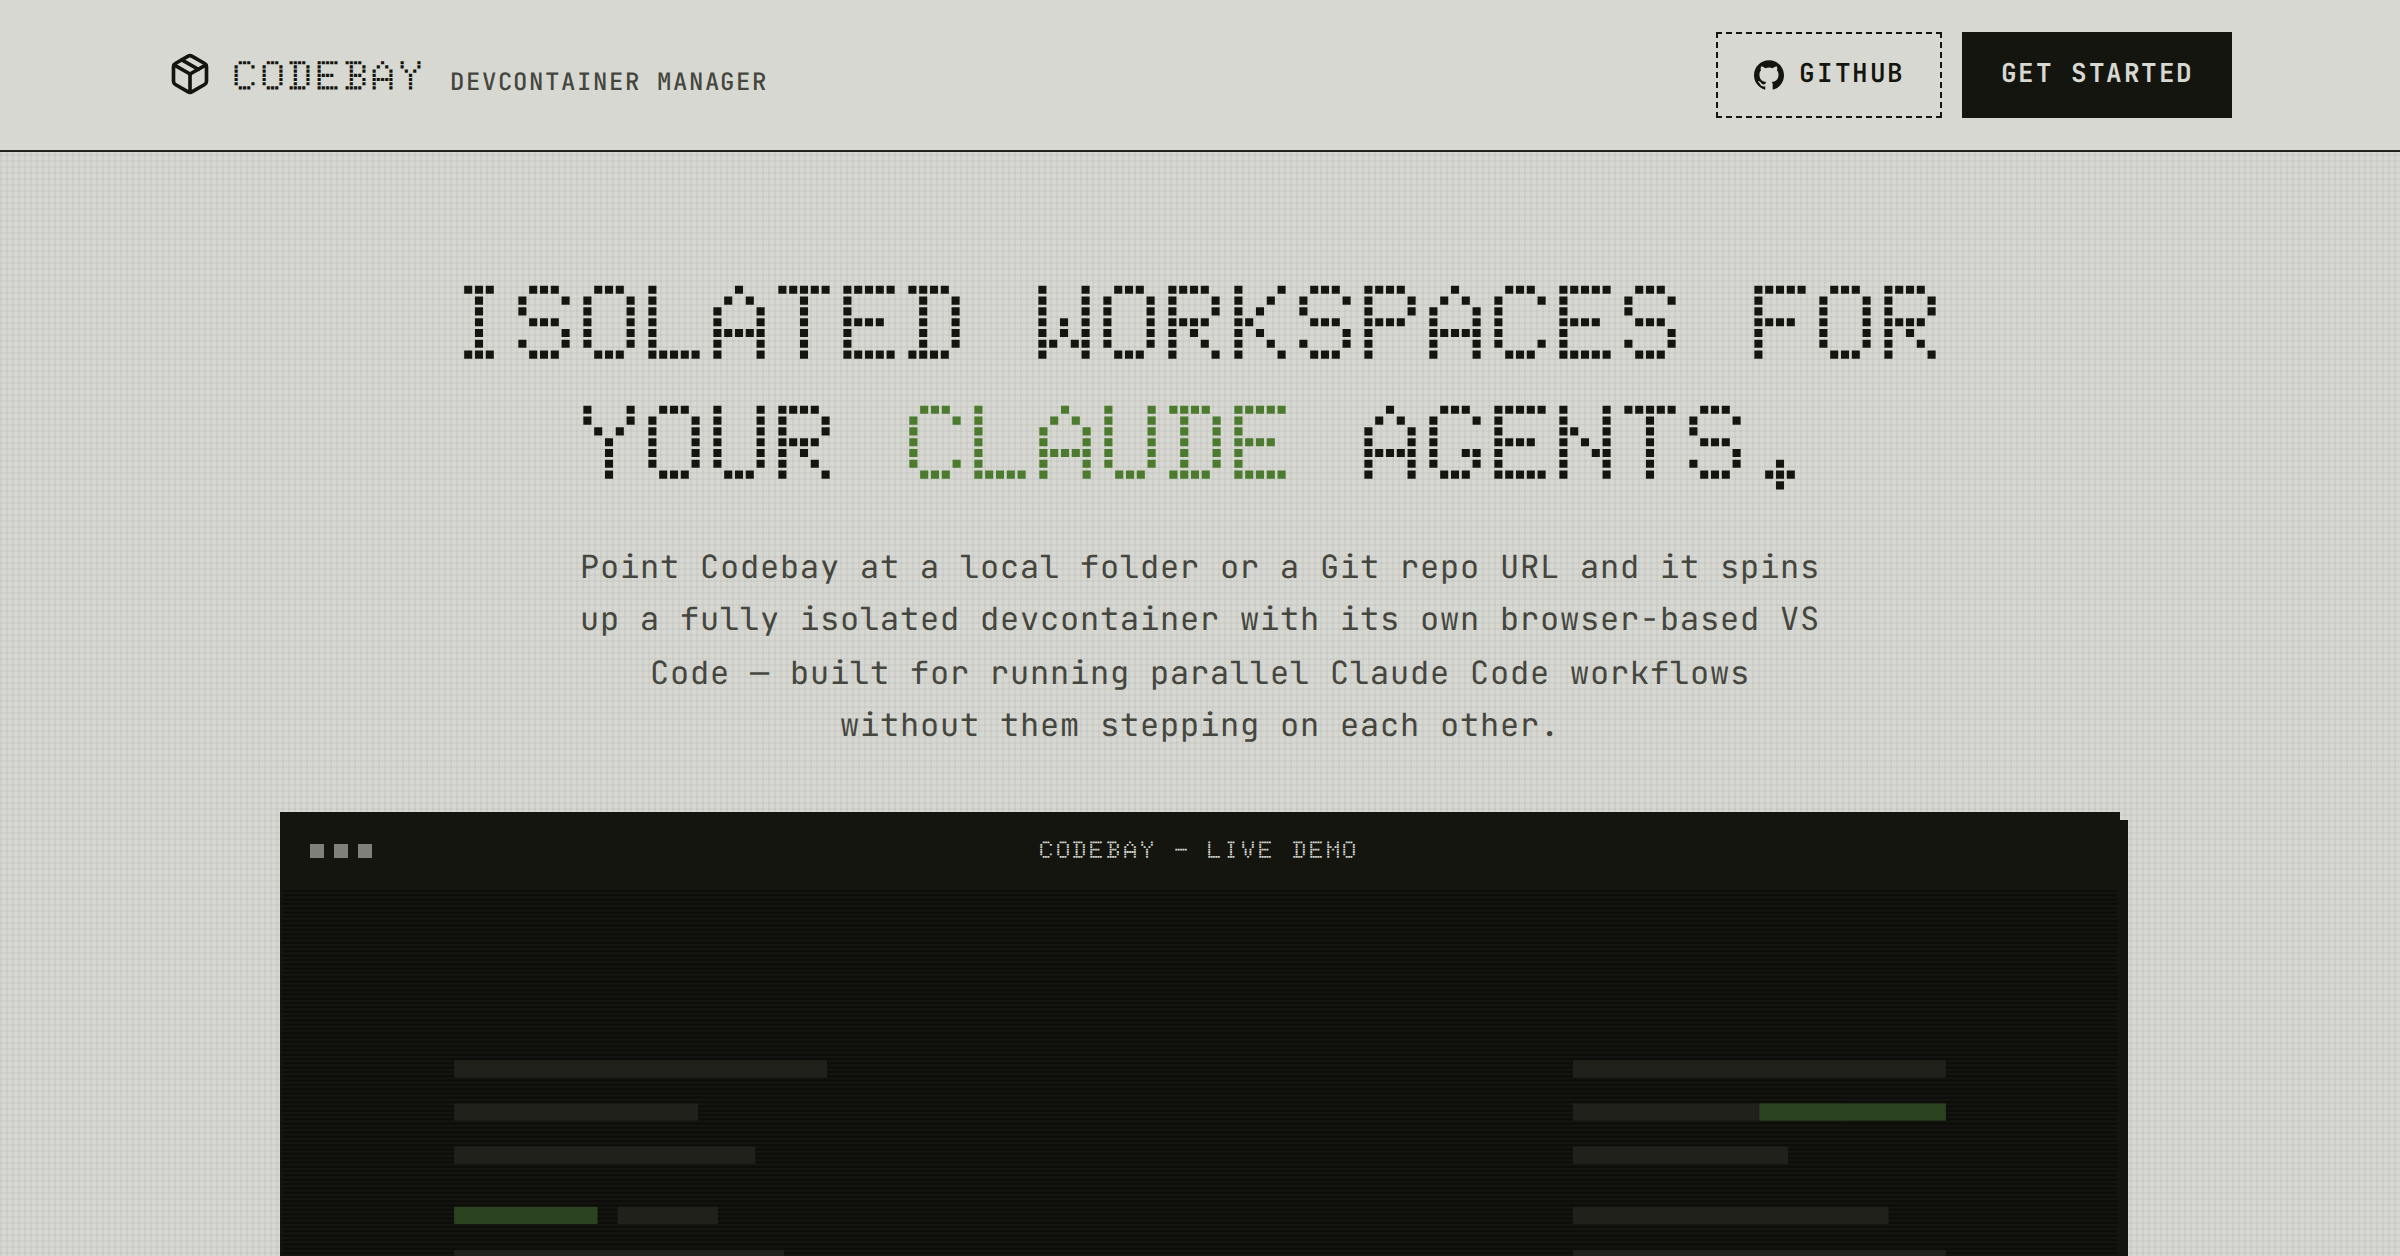
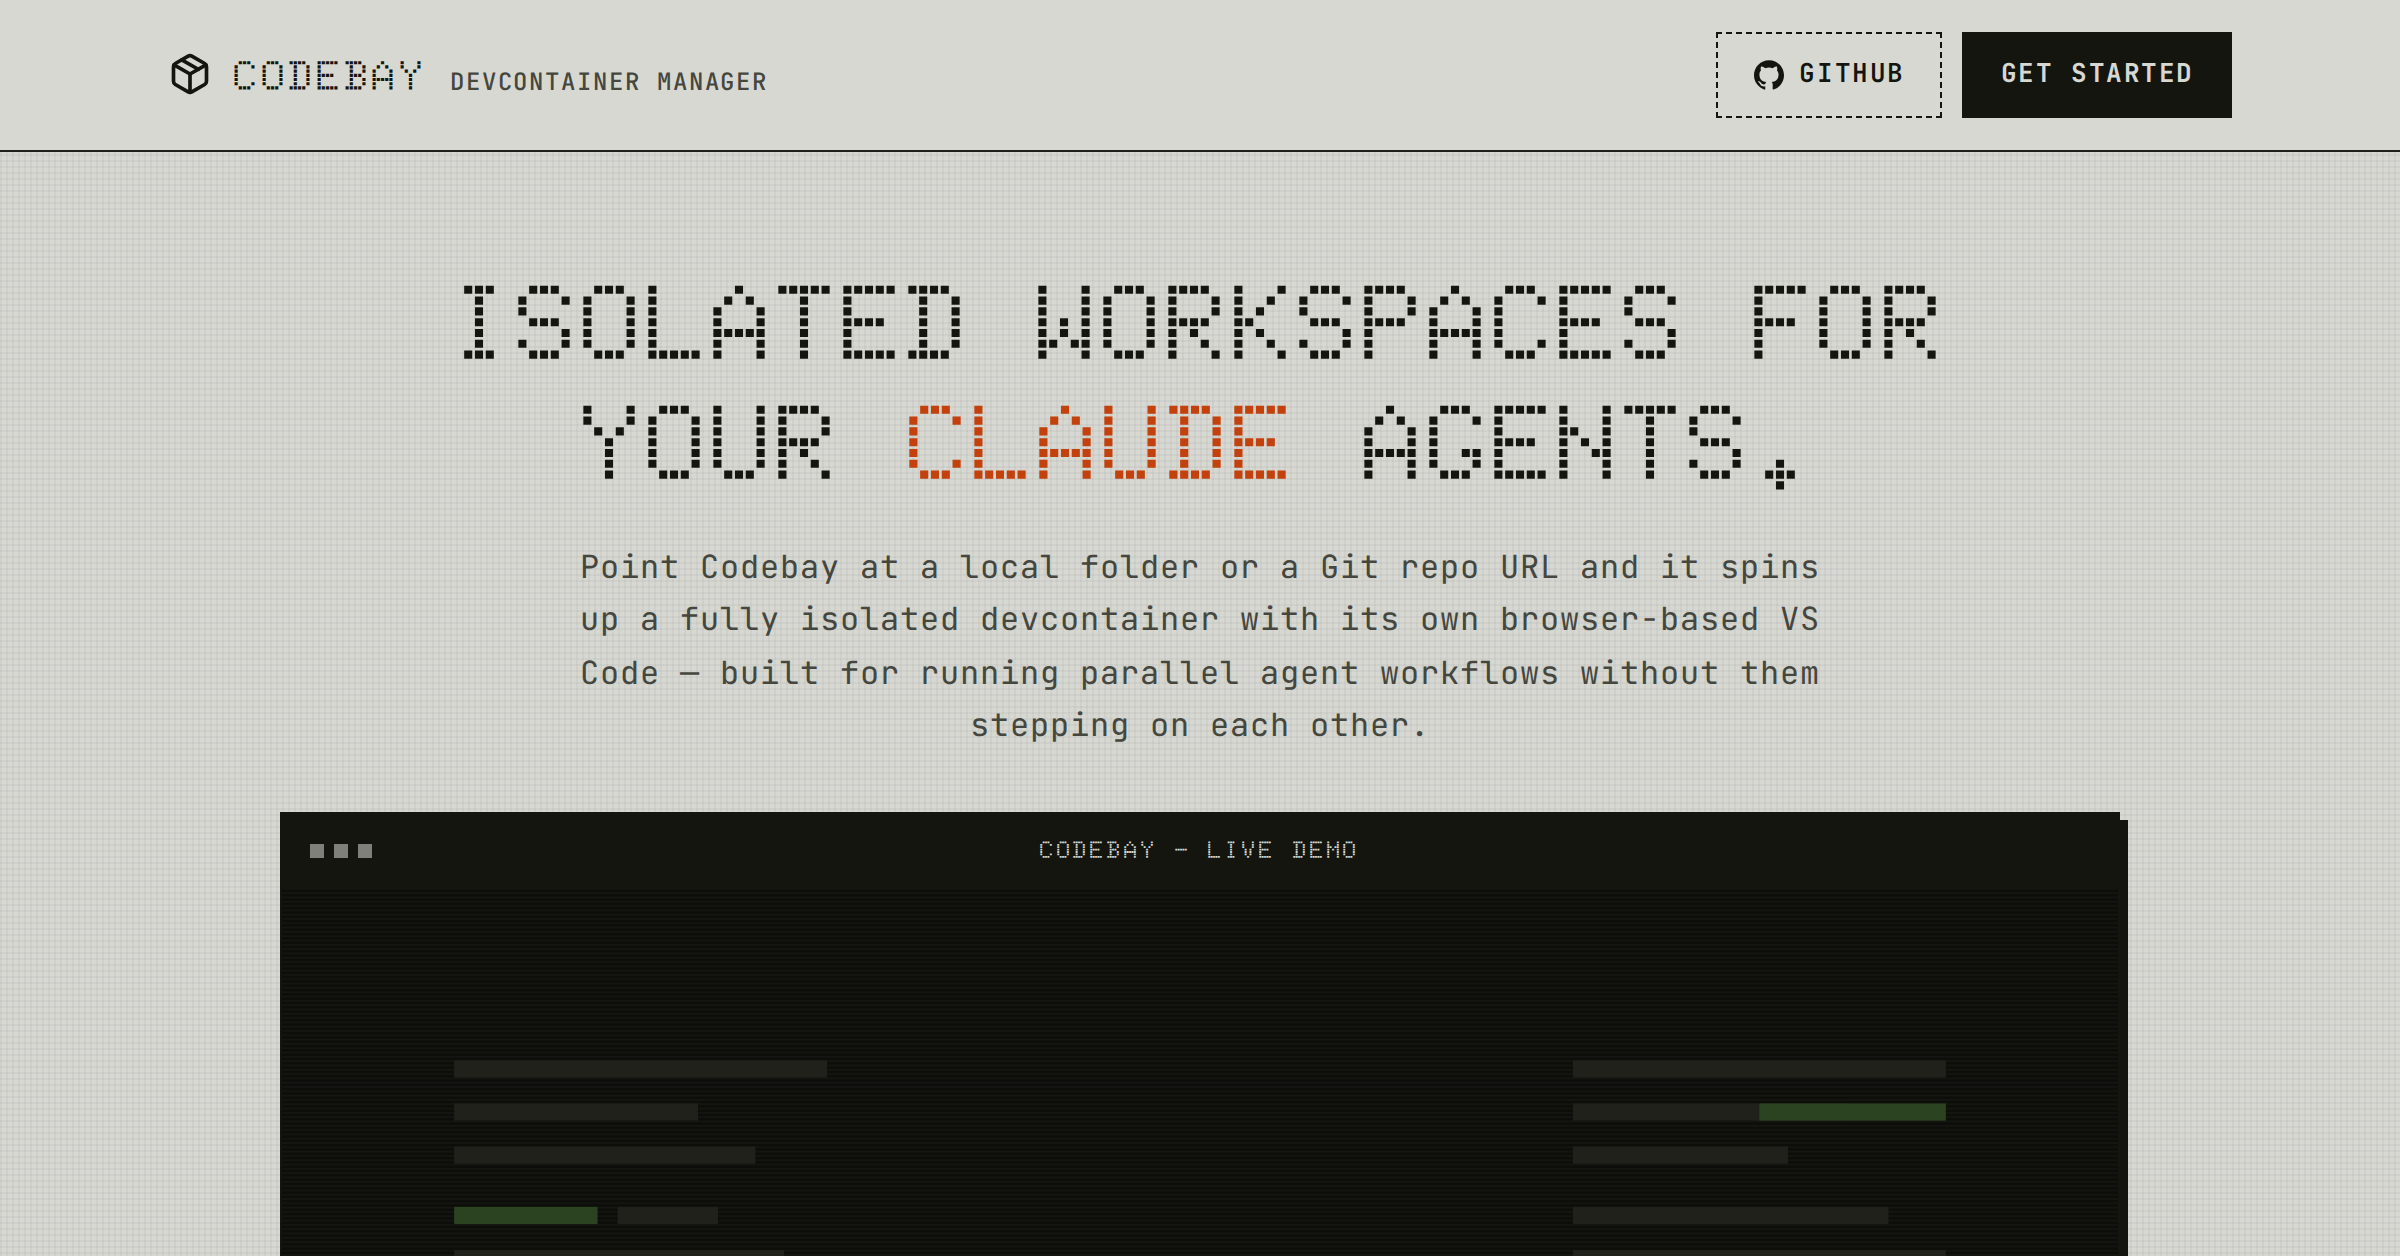
chore: brand rotator colors, triple word-rotator, keep dashboard art
- Claude renders in Claude's dark orange, Codex stays green, both
  properly centered in the shared rotator cell
- "Unsupervised agents..." now cycles through if you want / dare / care
  with the same rotator technique
- The dashboard mockup is no longer a placeholder — trimmed its height,
  dropped the "screenshot goes here" caption, and wired it in directly
- Avatar section mentions drawing your own sprite
- Swapped "Claude Code workflows" for "agent workflows" in the pitch
- Regenerated the og-image screenshot to match

Changed region(s): [[0.25, 0.5279, 0.75, 0.59], [0.375, 0.3105, 0.5312, 0.4037]]

diff --git a/marketing/index.html b/marketing/index.html
@@ -6,7 +6,7 @@
 		<title>Codebay — the devcontainer manager</title>
 		<meta
 			name="description"
-			content="Codebay spins up isolated devcontainer instances from any local folder or Git repo, each with its own browser-based VS Code — built for parallel Claude Code workflows."
+			content="Codebay spins up isolated devcontainer instances from any local folder or Git repo, each with its own browser-based VS Code — built for parallel agent workflows."
 		/>
 		<meta name="theme-color" content="#d7d8d2" />
 		<link rel="icon" type="image/svg+xml" href="./assets/favicon.svg" />
@@ -85,7 +85,7 @@
 				<div class="stage">
 					<h1 class="headline">
 						Isolated workspaces for your
-						<span class="word-rotator" aria-hidden="true">
+						<span class="word-rotator hero-rotator" aria-hidden="true">
 							<span class="word">Claude</span>
 							<span class="word">Codex</span>
 						</span>
@@ -94,8 +94,8 @@
 					</h1>
 					<p class="subhead">
 						Point Codebay at a local folder or a Git repo URL and it spins up a fully isolated
-						devcontainer with its own browser-based VS Code — built for running parallel
-						Claude&nbsp;Code workflows without them stepping on each other.
+						devcontainer with its own browser-based VS Code — built for running parallel agent
+						workflows without them stepping on each other.
 					</p>
 
 					<div class="demo-frame panel">
@@ -263,7 +263,15 @@
 			<section id="balance">
 				<div class="stage">
 					<div class="section-head">
-						<h2>Unsupervised agents… almost</h2>
+						<h2>
+							Unsupervised agents…
+							<span class="word-rotator triple" aria-hidden="true">
+								<span class="word">if you want</span>
+								<span class="word">dare</span>
+								<span class="word">care</span>
+							</span>
+							<span class="sr-only">if you want / dare / care</span>
+						</h2>
 						<p>
 							Agents have become great at working autonomously, but sometimes you want to jump in
 							and help them out. Codebay provides this through a full VS Code experience in addition
@@ -306,8 +314,7 @@
 						</div>
 						<div class="dashboard-screen">
 							<img
-								class="screenshot"
-								src="./assets/dashboard-screenshot.png"
+								src="./assets/dashboard-poster.svg"
 								alt="Codebay dashboard showing running agent instances"
 								loading="lazy"
 							/>
@@ -554,7 +561,7 @@
 				<div class="stage">
 					<div class="section-head">
 						<h2>Every instance gets a mascot</h2>
-						<p>A cute sprite to keep you company.</p>
+						<p>A cute sprite to keep you company. Use one of the existing ones or draw your own.</p>
 					</div>
 					<div class="avatar-carousel">
 						<div class="avatar-track">

diff --git a/marketing/styles.css b/marketing/styles.css
@@ -302,12 +302,11 @@ h1.headline {
 	position: relative;
 	display: inline-grid;
 	vertical-align: baseline;
-	text-align: left;
+	text-align: center;
 }
 .word-rotator .word {
 	grid-area: 1 / 1;
 	white-space: nowrap;
-	color: var(--ok-line);
 	opacity: 0;
 	animation: word-cycle 6s ease-in-out infinite;
 }
@@ -316,6 +315,12 @@ h1.headline {
 }
 .word-rotator .word:nth-child(2) {
 	animation-delay: 3s;
+}
+.hero-rotator .word:nth-child(1) {
+	color: #c2410c;
+}
+.hero-rotator .word:nth-child(2) {
+	color: var(--ok-line);
 }
 @keyframes word-cycle {
 	0%,
@@ -334,12 +339,42 @@ h1.headline {
 		transform: translateY(-0.2em) rotate(3deg);
 	}
 }
+.word-rotator.triple .word {
+	animation-name: word-cycle-3;
+	animation-duration: 9s;
+}
+.word-rotator.triple .word:nth-child(1) {
+	animation-delay: 0s;
+}
+.word-rotator.triple .word:nth-child(2) {
+	animation-delay: 3s;
+}
+.word-rotator.triple .word:nth-child(3) {
+	animation-delay: 6s;
+}
+@keyframes word-cycle-3 {
+	0%,
+	3% {
+		opacity: 0;
+		transform: translateY(0.2em) rotate(-3deg);
+	}
+	8%,
+	28% {
+		opacity: 1;
+		transform: translateY(0) rotate(0deg);
+	}
+	33%,
+	100% {
+		opacity: 0;
+		transform: translateY(-0.2em) rotate(3deg);
+	}
+}
 @media (prefers-reduced-motion: reduce) {
 	.word-rotator .word {
 		animation: none;
 		opacity: 1;
 	}
-	.word-rotator .word:nth-child(2) {
+	.word-rotator .word:not(:first-child) {
 		display: none;
 	}
 }
@@ -533,18 +568,11 @@ section {
 	text-align: left;
 }
 .dashboard-screen {
-	position: relative;
-	aspect-ratio: 16 / 10;
-	background: #d7d8d2 center / cover no-repeat url('./assets/dashboard-poster.svg');
 	overflow: hidden;
 }
-.dashboard-screen img.screenshot {
-	position: absolute;
-	inset: 0;
+.dashboard-screen img {
 	width: 100%;
-	height: 100%;
-	object-fit: cover;
-	object-position: top;
+	height: auto;
 }
 
 /* ---- what makes Codebay different ---- */

diff --git a/marketing/script.js b/marketing/script.js
@@ -16,7 +16,3 @@ document.querySelectorAll('[data-copy]').forEach((button) => {
 		}, 1500);
 	});
 });
-
-document.querySelectorAll('img.screenshot').forEach((img) => {
-	img.addEventListener('error', () => img.remove(), { once: true });
-});
